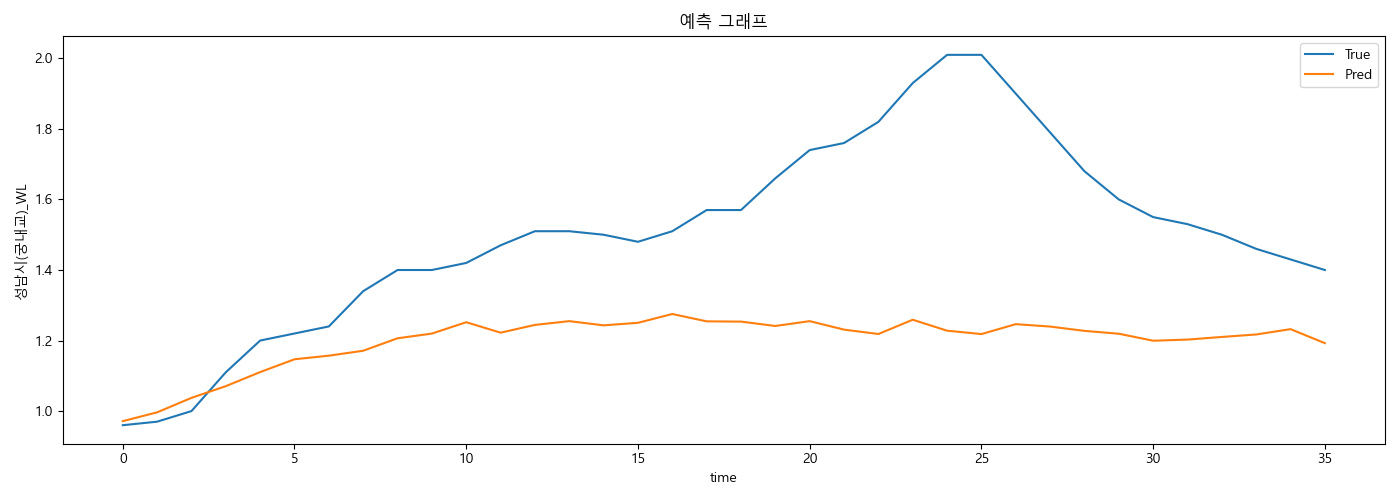
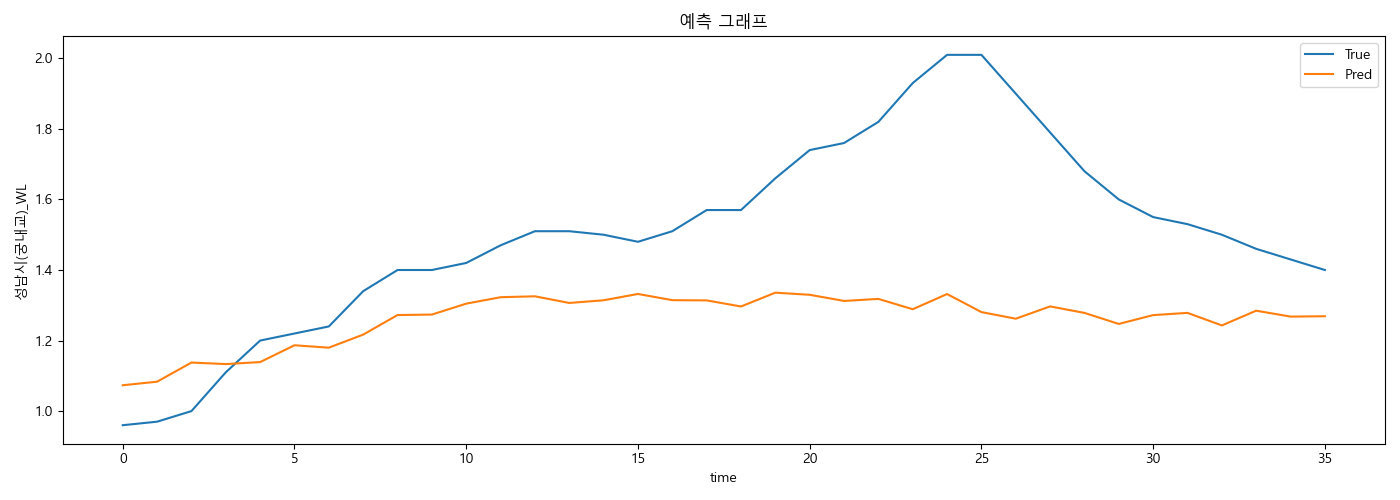
lstm Sequential

diff --git a/main.py b/main.py
@@ -103,9 +103,9 @@ def create_dataset (df, feature_cols, target_col, scaler_x, scaler_y, seq_length
     for i in range(start_t, end_t):
         X.append(X_scaled[i-seq_length:i, :])      # 강수만 (seq_len, n_feat)
         y.append(y_scaled[i:i+seq_length])         # 미래 36-step 수위 (seq_len,)
+
     
     return np.array(X, dtype=np.float32), np.array(y, dtype=np.float32) # (N,seq_length,n1) (N,seq_length)
-
 
 
 # 이벤트 여러개 -> X,y 합치기
@@ -145,12 +145,23 @@ def build_lstm_model(seq_length, n_features, hidden_units=64):
     return model
 
 
+# 모델 구축 2
+def make_lstm_model(seq_length, n_features, hidden_units=64):
+    #모델 세팅
+    model = Sequential()
+    model.add(LSTM(hidden_units, input_shape=(seq_length, n_features), return_sequences=False))# 마지막 hidden state만 사용
+    model.add(Dense(seq_length))
+    model.compile(loss='mean_squared_error', optimizer='adam')
+
+    return model
+
+
 def inverse_y(y_scaled_seq, scaler_y):
     # y_scaled_seq: (N, H)
     return scaler_y.inverse_transform(y_scaled_seq)
 
 
-
+# 예측
 def predict(model, df, feature_cols, target_col, scaler_x, scaler_y, seq_length, out_dir="./test_outputs", show=False):
     os.makedirs(out_dir, exist_ok=True)
 
@@ -246,7 +257,8 @@ if __name__ == "__main__":
     # -------------------------
     # 4) 모델 학습
     # -------------------------
-    model = build_lstm_model(seq_length=seq_length, n_features=X_train.shape[2], hidden_units=64)
+    # model = build_lstm_model(seq_length=seq_length, n_features=X_train.shape[2], hidden_units=64)
+    model = make_lstm_model(seq_length=seq_length, n_features=X_train.shape[2], hidden_units=64)
 
     es = EarlyStopping(monitor="val_loss", patience=10, restore_best_weights=True)
     history = model.fit(
